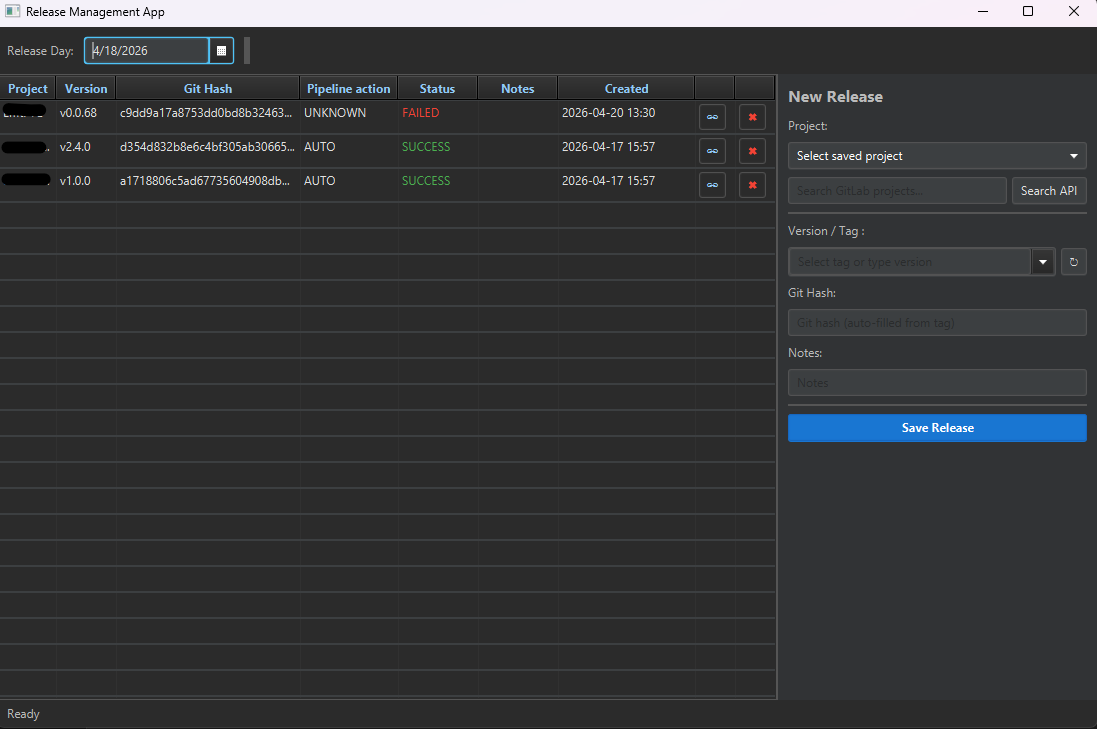
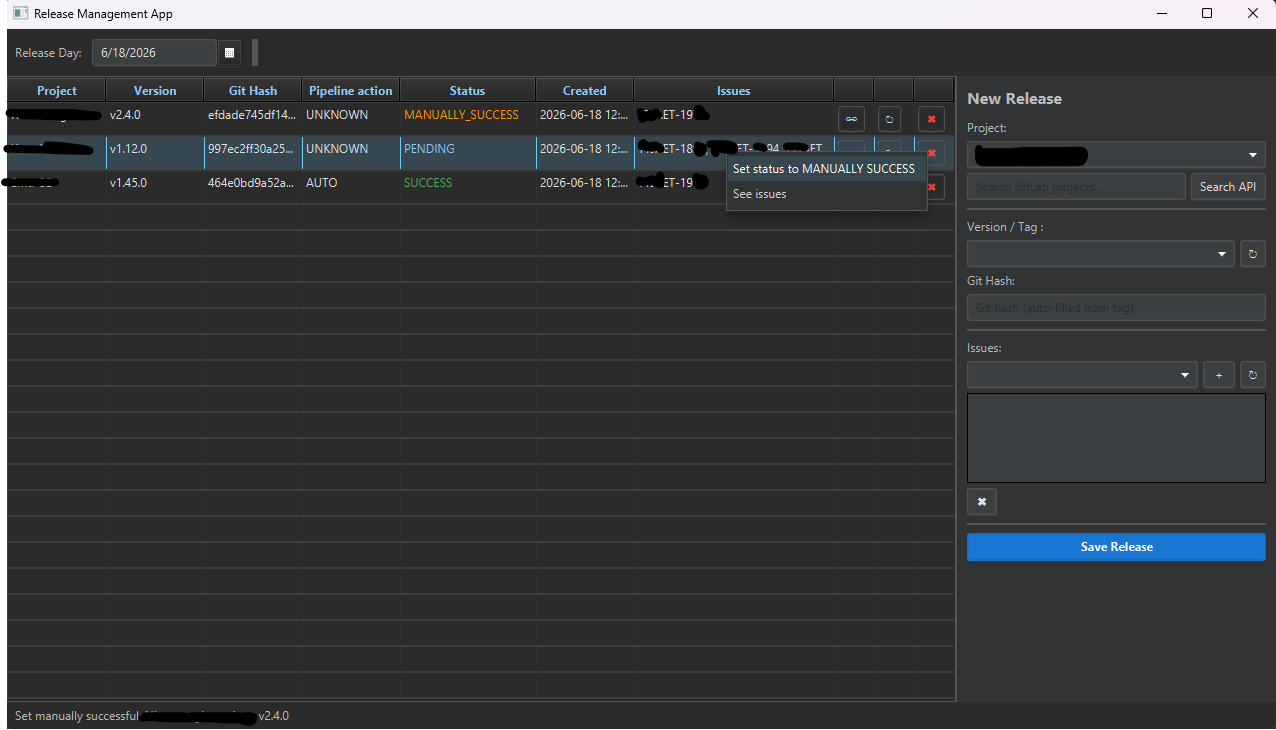
[AA] update readme

diff --git a/README.md b/README.md
@@ -6,9 +6,13 @@
 
 ## Motivation
 
-As a developer managing releases for multiple services, I was tracking release processes manually in a notepad — service names, versions, git hashes, pipeline statuses, and deploy steps. This became error-prone and tedious, especially on days when 10+ services needed to be released.
+As a developer managing releases for multiple services, I was tracking release processes manually in a notepad — service names, versions, git hashes, pipeline statuses, and deploy steps. 
+This became error-prone and tedious, especially on days when 10+ services needed to be released.
 
-This desktop application replaces that manual workflow with a structured, day-based release tracker that integrates directly with GitLab to fetch project tags, commit hashes, and monitor pipeline statuses automatically.
+This desktop application replaces that manual workflow with a structured, day-based release tracker that integrates directly with GitLab
+to fetch project tags, commit hashes, and monitor pipeline statuses automatically.
+
+It also integrates with Jira, allowing release entries to be linked to tickets and issues for improved traceability and release documentation.
 
 ## Technical Stack
 
@@ -46,13 +50,22 @@ Create a `.env` file in the project root directory (**see .env.sample**):
 GITLAB_BASE_URL=https://gitlab.example.com/
 GITLAB_TOKEN=glpat-xxxxxxxxxxxxxxxxxxxx
 GITLAB_PIPELINE_LAST_STEP=deploy-dev
+
+JIRA_URL=https://jira.example.com/
+JIRA_TOKEN=Nzg5xxxxxxxxxxxxxxxxxxxx
+JIRA_BOARD_NAME=MyBoard
+JIRA_ISSUE_STATUS=Waiting for release
 ```
 
-| Variable | Description                                      |
-|----------|--------------------------------------------------|
-| `GITLAB_BASE_URL` | Your GitLab instance URL (no trailing `/api/v4`) |
-| `GITLAB_TOKEN` | Personal access token with `read_api` scope      |
-| `GITLAB_PIPELINE_LAST_STEP` | Tag pipeline last step                           |
+| Variable | Description                                            |
+|----------|--------------------------------------------------------|
+| `GITLAB_BASE_URL` | Your GitLab instance URL (no trailing `/api/v4`)       |
+| `GITLAB_TOKEN` | Personal access token with `read_api` scope            |
+| `GITLAB_PIPELINE_LAST_STEP` | Tag pipeline last step                                 |
+| `JIRA_URL` | Your Jira instance URL (no trailing `/rest/agile/1.0`) |
+| `JIRA_TOKEN` | Personal access token                                  |
+| `JIRA_BOARD_NAME` | Boards where issues are located                        |
+| `JIRA_ISSUE_STATUS` | Issues status to be added into release                 |
 
 > **Note:** The `.env` file is in `.gitignore` and will not be committed.
 
